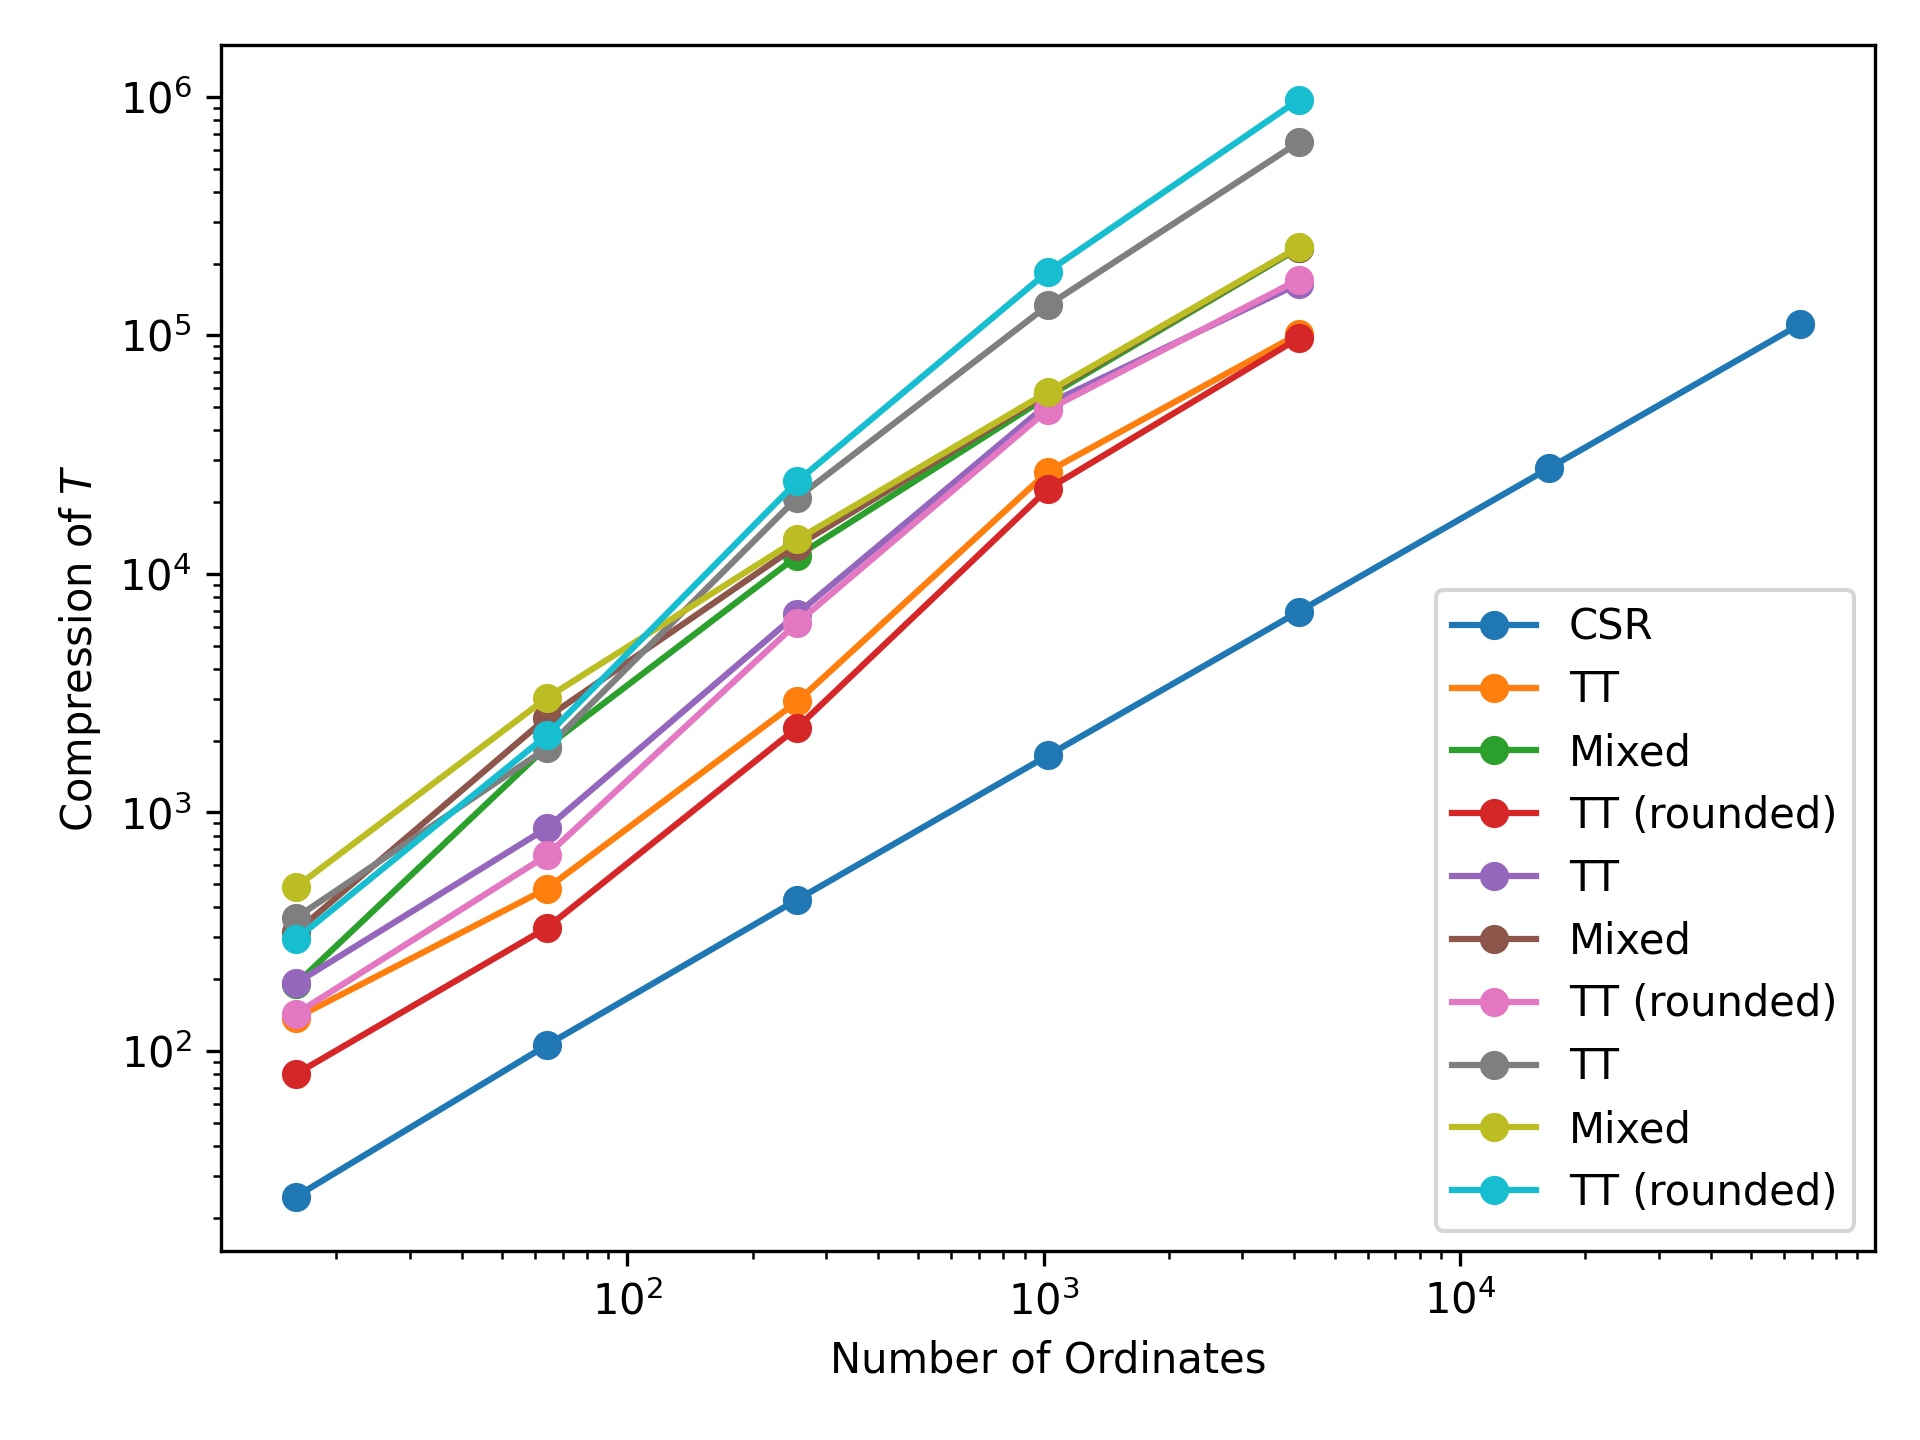
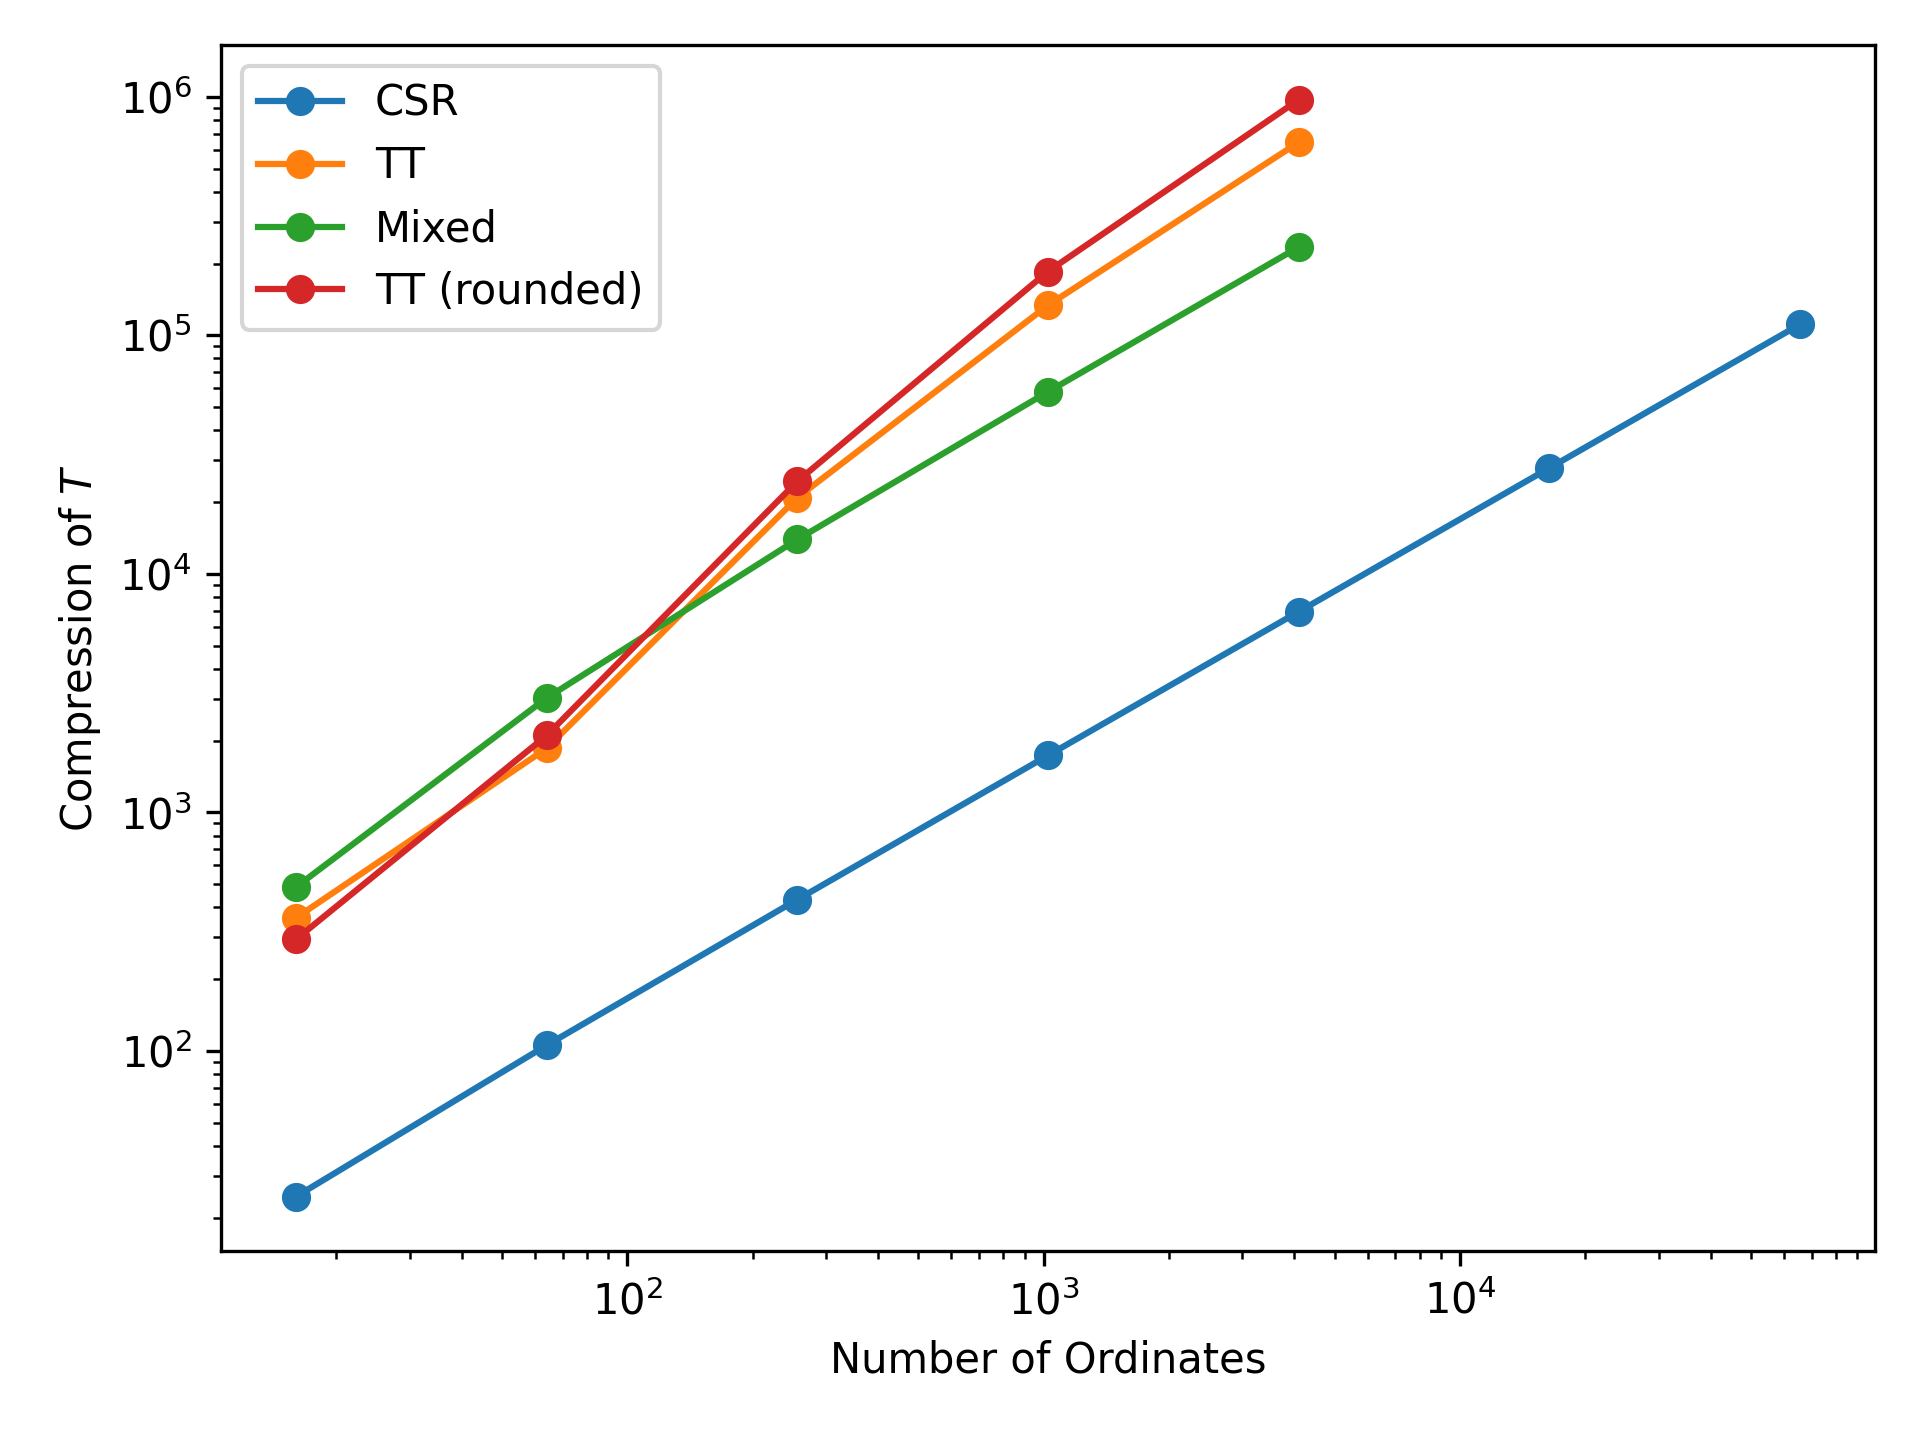
total fixed

diff --git a/fixed_source/circle/plotting.py b/fixed_source/circle/plotting.py
@@ -371,25 +371,21 @@ if __name__ == "__main__":
 
     # SVD truncation tolerance doesn't actually change the number of ranks
     for degree in degrees:
-        plt.clf()
         for i in range(len(eps)):
-            for j, name in enumerate(
-                ["CSR", "TT", "Mixed", "TT (rounded)"]
-                if i == 0
-                else ["TT", "Mixed", "TT (rounded)"]
-            ):
+            plt.clf()
+            for j, name in enumerate(["CSR", "TT", "Mixed", "TT (rounded)"]):
                 plt.plot(
                     [
                         d["num_ordinates"]
                         for d in data
-                        if d["eps"] == eps[0]
+                        if d["eps"] == (eps[i] if name != "CSR" else eps[0])
                         and d["degree"] == degree
                         and name in d["solve_method"]
                     ],
                     [
                         d["total"][d["solve_method"].index(name)]
                         for d in data
-                        if d["eps"] == eps[i]
+                        if d["eps"] == (eps[i] if name != "CSR" else eps[0])
                         and d["degree"] == degree
                         and name in d["solve_method"]
                     ],
